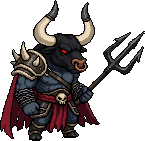
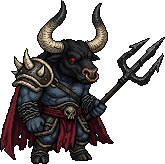
Nguu Dau ve lai cao 164px, bo phong le, 7 trum deu ve ti le nguyen
Claude-Session: https://claude.ai/code/session_01QQj46swudhcjrv1xLak4k8

diff --git a/game/index.html b/game/index.html
@@ -1734,7 +1734,7 @@ Object.assign(CHM,{quytuong:{"w": 145, "h": 149, "ax": 49, "ay": 137, "anims": {
 /* quái Âm Giới (24/11): ambinh = hoạt ảnh PixelLab; còn lại ảnh tĩnh + chuyển động bằng code (meta.proc: hover = lơ lửng, walk = đi) */
 Object.assign(CHM,{"ambinh": {"w": 187, "h": 146, "ax": 95, "ay": 139, "src": "assets/ambinh.png", "anims": {"idle": {"fps": 6, "f": [[0, 0], [187, 0], [374, 0], [561, 0], [748, 0], [935, 0], [1122, 0]]}, "run": {"fps": 12, "f": [[0, 146], [187, 146], [374, 146], [561, 146], [748, 146], [935, 146], [1122, 146], [1309, 146], [1496, 146]]}, "attack": {"fps": 10, "f": [[0, 292], [187, 292], [374, 292], [561, 292], [748, 292], [935, 292], [1122, 292], [1309, 292], [1496, 292]]}, "hit": {"fps": 8, "f": [[0, 438], [187, 438], [374, 438], [561, 438], [748, 438]]}, "death": {"fps": 10, "f": [[0, 584], [187, 584], [374, 584], [561, 584], [748, 584], [935, 584], [1122, 584], [1309, 584], [1496, 584]]}}}, "vonghon": {"w": 133, "h": 122, "ax": 65, "ay": 114, "src": "assets/vonghon_am.png", "proc": "hover", "anims": {"idle": {"fps": 8, "f": [[0, 0]]}, "run": {"fps": 8, "f": [[0, 0]]}, "attack": {"fps": 8, "f": [[0, 0]]}, "hit": {"fps": 8, "f": [[0, 0]]}, "death": {"fps": 8, "f": [[0, 0]]}}}, "matroi": {"w": 62, "h": 65, "ax": 31, "ay": 61, "src": "assets/matroi_am.png", "proc": "hover", "anims": {"idle": {"fps": 8, "f": [[0, 0]]}, "run": {"fps": 8, "f": [[0, 0]]}, "attack": {"fps": 8, "f": [[0, 0]]}, "hit": {"fps": 8, "f": [[0, 0]]}, "death": {"fps": 8, "f": [[0, 0]]}}}, "oanhonxa": {"w": 198, "h": 117, "ax": 94, "ay": 109, "src": "assets/oanhonxa_am.png", "proc": "walk", "anims": {"idle": {"fps": 8, "f": [[0, 0]]}, "run": {"fps": 8, "f": [[0, 0]]}, "attack": {"fps": 8, "f": [[0, 0]]}, "hit": {"fps": 8, "f": [[0, 0]]}, "death": {"fps": 8, "f": [[0, 0]]}}}, "khuyen": {"w": 175, "h": 121, "ax": 89, "ay": 116, "src": "assets/khuyen_am.png", "proc": "walk", "anims": {"idle": {"fps": 8, "f": [[0, 0]]}, "run": {"fps": 8, "f": [[0, 0]]}, "attack": {"fps": 8, "f": [[0, 0]]}, "hit": {"fps": 8, "f": [[0, 0]]}, "death": {"fps": 8, "f": [[0, 0]]}}}, "quysai": {"w": 145, "h": 149, "ax": 49, "ay": 137, "src": "assets/quysai_am.png", "proc": "walk", "anims": {"idle": {"fps": 8, "f": [[0, 0]]}, "run": {"fps": 8, "f": [[0, 0]]}, "attack": {"fps": 8, "f": [[0, 0]]}, "hit": {"fps": 8, "f": [[0, 0]]}, "death": {"fps": 8, "f": [[0, 0]]}}}});
 /* trùm Âm Giới tạo bằng PixelLab (24/11): Ngưu Đầu, Mã Diện, ảnh tĩnh 1 khung, chuyển động bằng code */
-Object.assign(CHM,{"nguudau": {"w": 145, "h": 141, "ax": 72, "ay": 138, "src": "assets/nguudau_am.png", "proc": "walk", "anims": {"idle": {"fps": 8, "f": [[0, 0]]}, "run": {"fps": 8, "f": [[0, 0]]}, "attack": {"fps": 8, "f": [[0, 0]]}, "hit": {"fps": 8, "f": [[0, 0]]}, "death": {"fps": 8, "f": [[0, 0]]}}},"madien": {"w": 157, "h": 160, "ax": 78, "ay": 157, "src": "assets/madien_am.png", "proc": "walk", "anims": {"idle": {"fps": 8, "f": [[0, 0]]}, "run": {"fps": 8, "f": [[0, 0]]}, "attack": {"fps": 8, "f": [[0, 0]]}, "hit": {"fps": 8, "f": [[0, 0]]}, "death": {"fps": 8, "f": [[0, 0]]}}}});
+Object.assign(CHM,{"nguudau": {"w": 165, "h": 164, "ax": 82, "ay": 161, "src": "assets/nguudau_am.png", "proc": "walk", "anims": {"idle": {"fps": 8, "f": [[0, 0]]}, "run": {"fps": 8, "f": [[0, 0]]}, "attack": {"fps": 8, "f": [[0, 0]]}, "hit": {"fps": 8, "f": [[0, 0]]}, "death": {"fps": 8, "f": [[0, 0]]}}},"madien": {"w": 157, "h": 160, "ax": 78, "ay": 157, "src": "assets/madien_am.png", "proc": "walk", "anims": {"idle": {"fps": 8, "f": [[0, 0]]}, "run": {"fps": 8, "f": [[0, 0]]}, "attack": {"fps": 8, "f": [[0, 0]]}, "hit": {"fps": 8, "f": [[0, 0]]}, "death": {"fps": 8, "f": [[0, 0]]}}}});
 /* Hắc/Bạch Vô Thường: thiết kế ChatGPT, chuyển sang nét pixel game bằng PixelLab (24/11) */
 Object.assign(CHM,{"hacvo": {"w": 135, "h": 159, "ax": 67, "ay": 156, "src": "assets/hacvo_am.png", "proc": "walk", "anims": {"idle": {"fps": 8, "f": [[0, 0]]}, "run": {"fps": 8, "f": [[0, 0]]}, "attack": {"fps": 8, "f": [[0, 0]]}, "hit": {"fps": 8, "f": [[0, 0]]}, "death": {"fps": 8, "f": [[0, 0]]}}},"bachvo": {"w": 141, "h": 165, "ax": 70, "ay": 162, "src": "assets/bachvo_am.png", "proc": "walk", "anims": {"idle": {"fps": 8, "f": [[0, 0]]}, "run": {"fps": 8, "f": [[0, 0]]}, "attack": {"fps": 8, "f": [[0, 0]]}, "hit": {"fps": 8, "f": [[0, 0]]}, "death": {"fps": 8, "f": [[0, 0]]}}}});
 /* Diêm Vương, Phán Quan, Mạnh Bà: ảnh chủ game đưa (ChatGPT, 192x192 nền trong suốt, lưới pixel sạch) */
@@ -1808,7 +1808,7 @@ const ESPR_PX=new Set(['nguudau','madien','hacvo','bachvo','manhba','phanquan','
 for(const k of ESPR_PX)if(CHM[k])CHM[k].hq=4;
 let _hqOff=false;
 /* Trùm Âm Giới dùng CHUNG một bậc nguyên n theo máy (n pixel màn hình cho mỗi pixel ảnh), nên cả 7 con luôn đúng tỉ lệ với nhau (ảnh càng cao càng to). BOSS_REL thu riêng từng con (<1 thì vẽ bằng lọc mịn vì không còn là số nguyên). */
-const BOSS_T=1.03,BOSS_REL={nguudau:1.135};/* Phán Quan bỏ thu 0,88: thu hệ số lẻ làm viền lởm chởm (đo 24/11), nay vẽ ở tỉ lệ nguyên (nét), cao hơn các trùm khác ~14% *//* Ngưu Đầu thấp nhất (141 px) nên nâng 15% để không lùn hơn Mã Diện (chủ game) */
+const BOSS_T=1.03,BOSS_REL={};/* Phán Quan bỏ thu 0,88: thu hệ số lẻ làm viền lởm chởm (đo 24/11), nay vẽ ở tỉ lệ nguyên (nét), cao hơn các trùm khác ~14% *//* Ngưu Đầu thấp nhất (141 px) nên nâng 15% để không lùn hơn Mã Diện (chủ game) */
 function espScale(m){if(!ESPR_PX.has(m[0])){_hqOff=false;return m[1]}const d=DPR*ZOOM,n=Math.max(1,Math.round(BOSS_T*d)),r=BOSS_REL[m[0]]||1;if(r===1){_hqOff=true;return n/d}_hqOff=false;return n*r/d}
 function drawESpr(e,c,F,t,wind){const m=ESPR[e.type];if(!m)return false;const h=CH[m[0]];if(!h||!h.ok)return false;const A=h.meta.anims;let an='run',fi;
  if(e.stun>0&&A.hit){an='hit';fi=1}

diff --git a/nguon/pixellab/amgioi/gen_nd.py b/nguon/pixellab/amgioi/gen_nd.py
@@ -1,0 +1,24 @@
+import base64,time,importlib.util
+from PIL import Image
+import numpy as np
+spec=importlib.util.spec_from_file_location('pl','/home/user/HoaThan/cong_cu/claude/pl.py');pl=importlib.util.module_from_spec(spec);spec.loader.exec_module(pl)
+A='/home/user/HoaThan/game/assets/nguudau_am.png';OUT='/home/user/HoaThan/nguon/pixellab/amgioi/sy7/'
+D=("Redraw this exact character at a larger size with the same rendering as the other bosses of this game (like the horse-headed general Ma Mian): ultra-fine 1 px pixel grid, NO big blocky pixels, thin 1 px dark outline, rich shading 4 to 5 tones per material, fine texture on fur, armor and cloth, muted dark palette. "
+   "KEEP THE DESIGN IDENTICAL: black bull head with big curved pale horns and glowing red eyes and nose ring, spiked dark iron pauldrons, blue-grey muscular body, red sash belt with a skull, dark red cape, black trident with sharp prongs, same pose, side view facing right. The character should look big, powerful and detailed like a boss. Transparent background.")
+S=192;T=160;seed=7
+im=Image.open(A).convert('RGBA');im=im.crop(im.getbbox())
+f=T/im.height;w=min(S-6,round(im.width*f));f=w/im.width
+sm=im.resize((w,round(im.height*f)),Image.LANCZOS)
+a=np.array(sm);a[:,:,3]=np.where(a[:,:,3]>110,255,0);sm=Image.fromarray(a)
+cv=Image.new('RGBA',(S,S),(0,0,0,0));cv.alpha_composite(sm,((S-sm.width)//2,S-sm.height-4));cv.save(OUT+'in_nd.png')
+b64=base64.b64encode(open(OUT+'in_nd.png','rb').read()).decode()
+j=pl.req('POST','/edit-images-v2',{"method":"edit_with_text","edit_images":[{"image":{"type":"base64","base64":b64},"width":S,"height":S}],"image_size":{"width":S,"height":S},"description":D,"seed":seed,"no_background":True})
+jid=j.get('background_job_id');t0=time.time();r=j
+while jid and time.time()-t0<400:
+    time.sleep(6);r=pl.req('GET','/background-jobs/'+jid)
+    if r['status']=='completed':break
+    if r['status']=='failed':raise Exception(str(r)[:300])
+for i,x in enumerate(r['last_response'].get('images',[])):
+    x=x.get('base64') if isinstance(x,dict) else x
+    open(OUT+f'nguudau_s{seed}_{i}.png','wb').write(base64.b64decode(x.split(',')[-1]))
+print('ok')

diff --git a/CLAUDE.md b/CLAUDE.md
@@ -430,3 +430,4 @@ Chủ game gửi ảnh sảnh iPhone ngang (~664×307, trong trình duyệt nên
 - (24/11 đêm, bản chốt Diêm Vương) Chủ game đưa tranh cảnh Diêm Vương (mão rèm hạt vàng tua đỏ, áo xanh lục đen thêu mây vàng, vai đầu rồng, giáp ngực đầu lâu đỏ, tay cầm bút, tay kia đưa ra; gốc `nguon/master_amgioi/chatgpt_diemvuong_v4_goc.png`, có thêm 2 bóng ma quan, bàn, lư lửa). PixelLab `edit-images-v2` khung 256, 10 lượt (`gen_dv3.py`, `sy6/`) chỉ giữ vị vua. `diemvuong_am.png` 231×223. Thay bản Diêm Vương áo đen có aura lửa trước đó (`dv/`, `sy/`). `ET.diemvuong.r=58` giữ nguyên. Chưa chụp kiểm độ nét, chưa đăng artifact. Còn khoảng 2.293 lượt.
 - (24/11 đêm, SỬA: giữ cả bố cục) Bản Diêm Vương chỉ có vị vua bị chê vì tao tự bỏ 2 linh hồn quan, ngai (bàn đặt cuộn giấy) và lư lửa. Làm lại giữ nguyên cả cảnh: PixelLab `edit-images-v2` khung 384×256, 10 lượt (`gen_dv4.py`, `sy6/dvscene_*`). `diemvuong_am.png` nay 303×241 (cả cảnh là MỘT sprite, bóng ma/bàn/lư không động riêng). `ET.diemvuong.r=58` chưa chỉnh theo bề ngang mới. Còn khoảng 2.283 lượt. Bản chỉ vị vua: `sy6/diemvuong_s7_0.png`.
 - (24/11 đêm) `BOSS_REL.nguudau` 1,15→1,135: Ngưu Đầu (141 px) hiển thị cao bằng Mã Diện (160 px). Hệ số lẻ nên Ngưu Đầu vẽ bằng lọc mịn (hơi mềm nét hơn 6 trùm kia); muốn nét tuyệt đối thì vẽ lại Ngưu Đầu cao ~160 px bằng PixelLab.
+- (24/11 đêm) **Ngưu Đầu vẽ lại cao ~164 px** (PixelLab `edit-images-v2` 10 lượt, khung 192, đầu vào là ảnh Ngưu Đầu cũ phóng mượt, `nguon/pixellab/amgioi/gen_nd.py`, `sy7/`; bản cũ `sy7/nguudau_cu.png`): giữ thiết kế, thêm chi tiết. `nguudau_am.png` 165×164. `BOSS_REL` nay rỗng `{}`: cả 7 trùm vẽ ở tỉ lệ nguyên (nét tuyệt đối). Còn khoảng 2.273 lượt.
